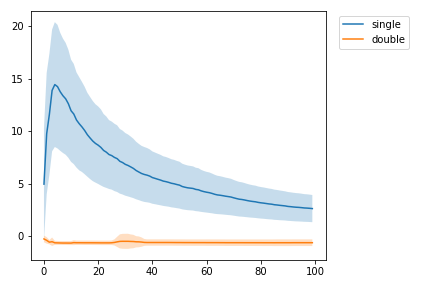
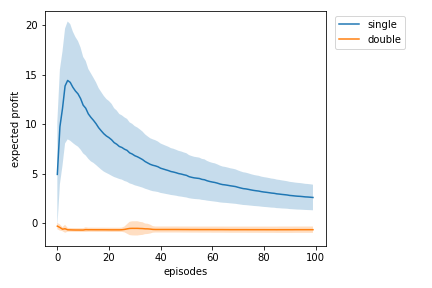
final push

diff --git a/mdp.py b/mdp.py
@@ -192,11 +192,12 @@ def experiment(num_experiments=500, episodes=300, num_random_actions=5, std=1, d
     return 100 * np.array(final_freq)
 
 
-num_random_actions = 5
-std = 1
-single_res = experiment(num_random_actions=num_random_actions, std=std)
-double_res = experiment(
-    num_random_actions=num_random_actions, std=std, doubleQ=True)
+num_random_actions = 1
+std = 0
+single_res = experiment(
+    episodes=50, num_random_actions=num_random_actions, std=std)
+double_res = experiment(episodes=50,
+                        num_random_actions=num_random_actions, std=std, doubleQ=True)
 
 
 # %%
@@ -215,6 +216,9 @@ plt.fill_between(range(len(single_res[0])), m-s, m+s, alpha=0.25)
 plt.legend()
 plt.xlabel("episodes")
 plt.ylabel("percentage left")
+
+plt.savefig("Results/single_better.png")
+plt.show()
 
 # %%
 

diff --git a/roulette.py b/roulette.py
@@ -225,11 +225,6 @@ double_res = experiment(
 
 # %%
 
-print(single_res.mean(axis=0))
-
-print(double_res.mean(axis=0))
-
-
 m = single_res.mean(axis=0)
 s = single_res.std(axis=0)/2
 
@@ -242,12 +237,15 @@ plt.plot(range(len(double_res[0])), m, label="double")
 plt.fill_between(range(len(single_res[0])), m-s, m+s, alpha=0.25)
 
 plt.legend(bbox_to_anchor=(1.3, 1.0))
-plt.tight_layout()
 
-plt.savefig("Results/roulette.png")
 plt.xlabel("episodes")
-plt.ylabel("percentage left")
+plt.ylabel("expected profit")
 
+plt.tight_layout()
+plt.savefig("Results/roulette.png")
+
+
+# %%
 
 # %%
 
